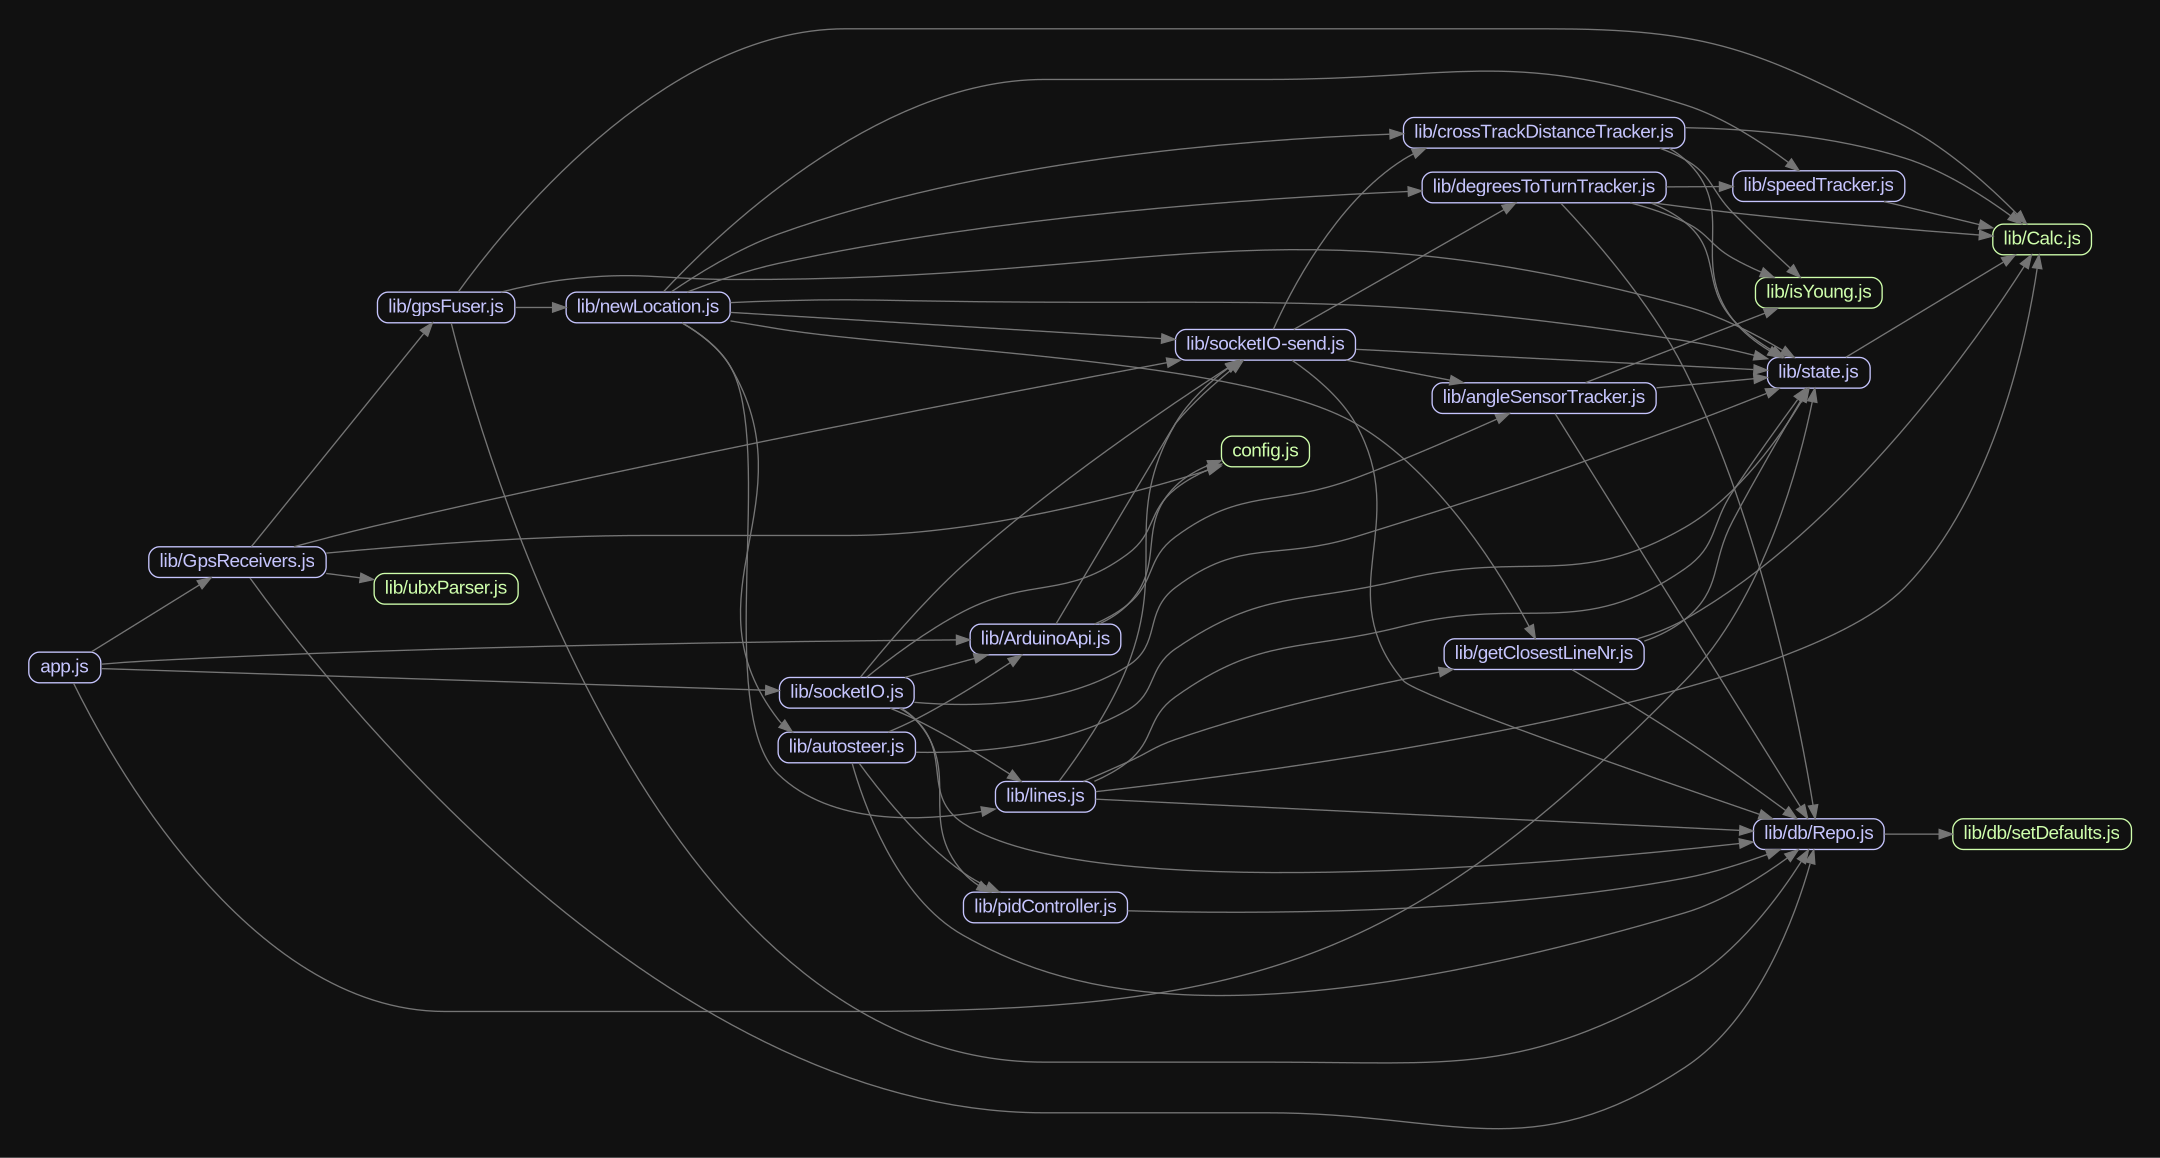
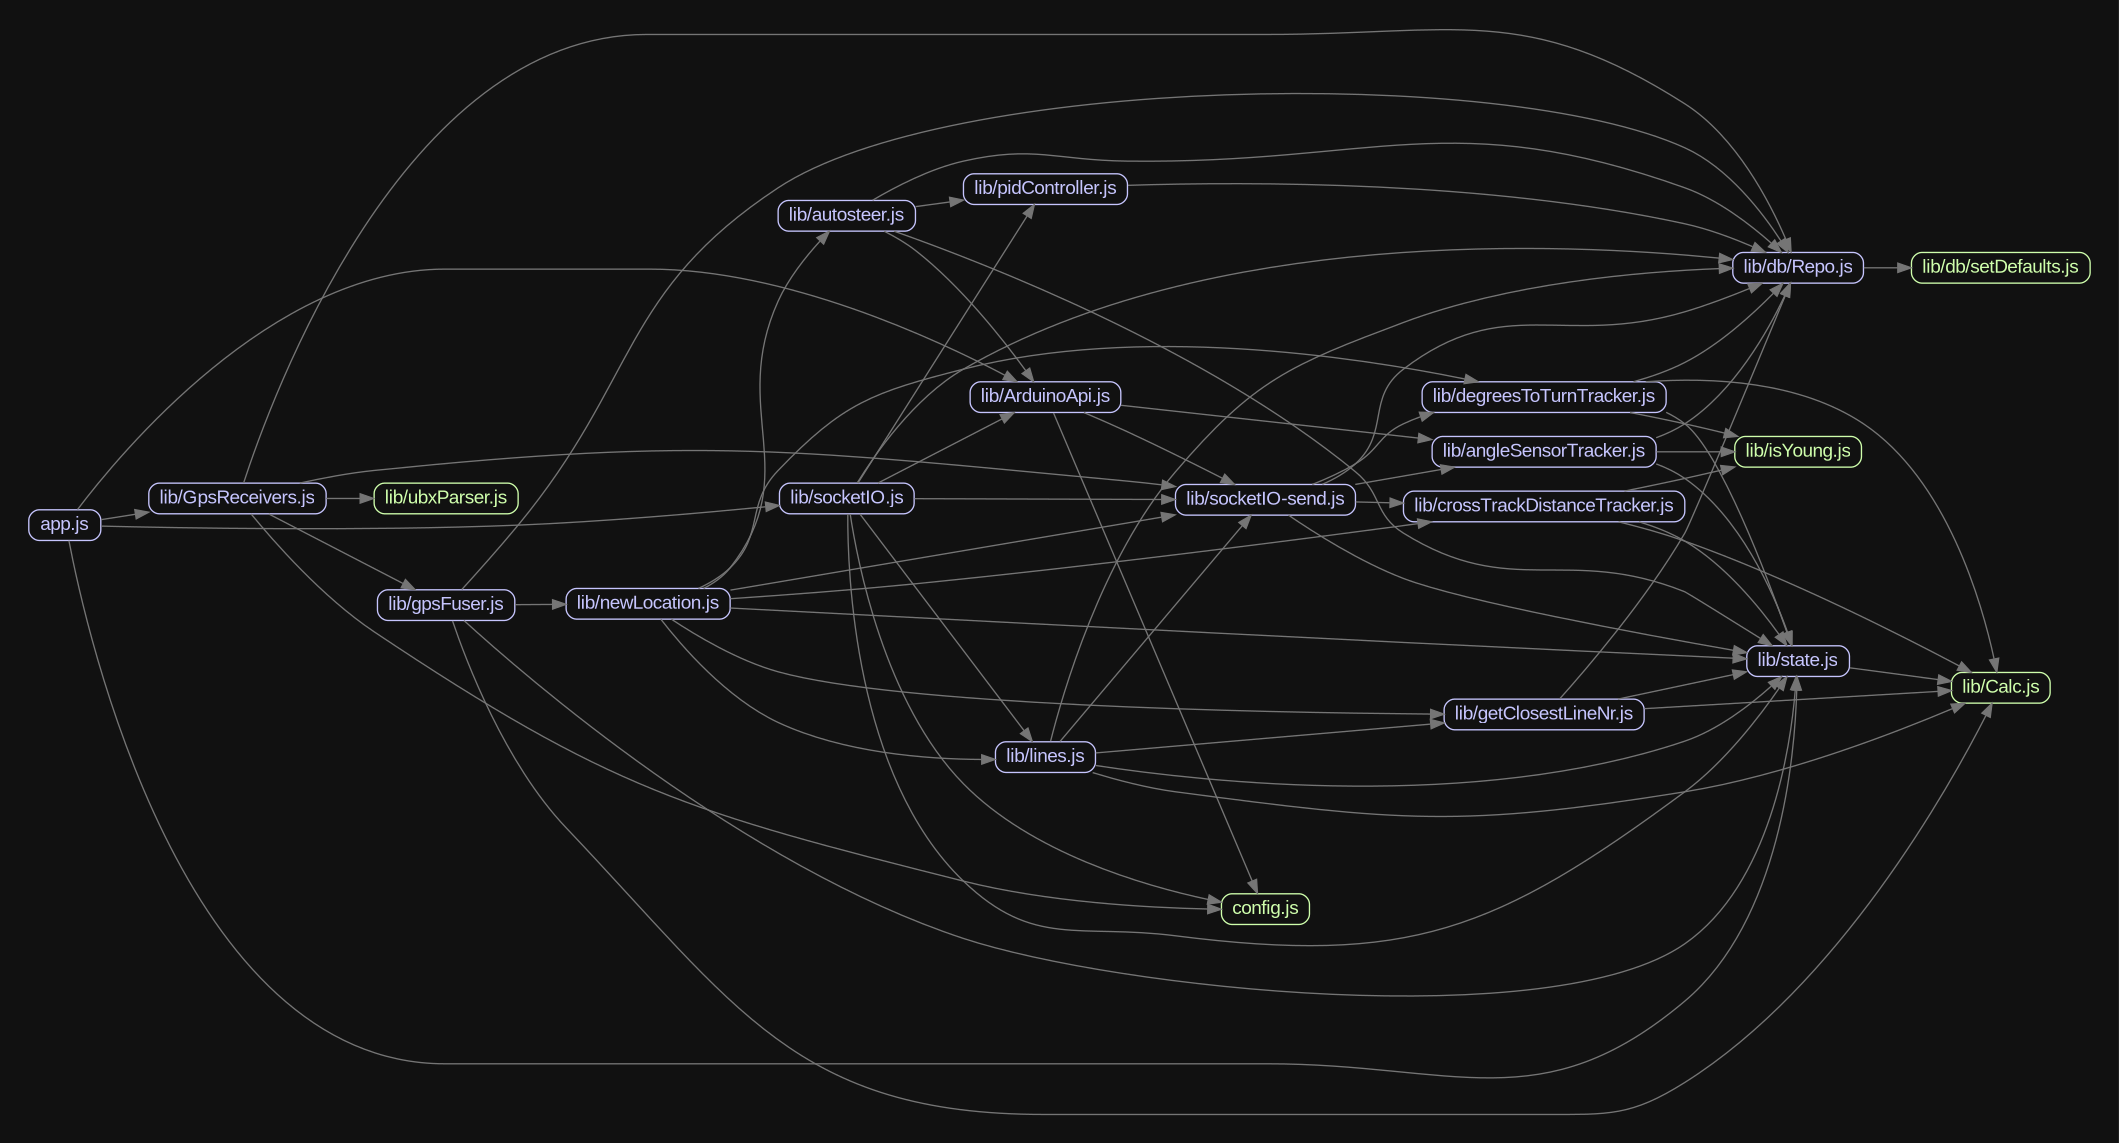
improve speed, send slope, simulator

diff --git a/lib/GpsReceivers.js b/lib/GpsReceivers.js
@@ -4,10 +4,12 @@ const Config = require('../config');
 const ubxParser = require('./ubxParser');
 const GpsFuser = require('./gpsFuser');
 var ecef = require('geodetic-to-ecef');
+const fs = require('fs');
 const sendInfo = require('./socketIO-send').sendInfo;
 const { NtripClient } = require('ntrip-client');
 const portGpsLeft = new SerialPort(Config.gpsLeft.path, { baudRate: 115200, autoOpen: false });
 const portGpsRight = new SerialPort(Config.gpsRight.path, { baudRate: 115200, autoOpen: false });
+
 const axios = require('axios').default;
 const DB = require('./db/Repo');
 
@@ -17,8 +19,7 @@ const ntripClient = new NtripClient({
   mountpoint: DB.getSettings().ntrip.mountpoint,
   username: DB.getSettings().ntrip.username,
   password: DB.getSettings().ntrip.password,
-  // the interval of send nmea, unit is millisecond
-  interval: 2000,
+  interval: 2000 // the interval of send nmea, unit is millisecond
 });
 
 assistNow();
@@ -43,43 +44,24 @@ function ntrip2() {
     console.log('client close');
   });
   ntripClient.on('error', (err) => {
-    console.log('ntrip: '+err);
+    console.log('ntrip: ' + err);
   });
   ntripClient.run();
 }
 
-
 const GpsReceivers = (() => {
   portGpsLeft.on('data', (line) => {
+    fs.appendFileSync('logsLeft.ubx', line, { encoding: 'binary' });
     if (!line.toString().startsWith('$GN')) {
-      let responses = ubxParser.parse(line);
-      responses.forEach(response => {
-        if (response.fixType === '3D-fix') {
-          ntripClient.setXYZ(ecef(response.lat, response.lon));
-        }
-        GpsFuser.fuseReceiver(0, response);
-        sendInfo(0, {
-          time: response.iTow,
-          satCount: response.numSV,
-          quality: response.flags.carrSoln
-        })
-      });
+      processUbxLeft(line);
     } else {
       console.log('NMEA0: ' + line.toString());
     }
   });
-
   portGpsRight.on('data', (line) => {
+    fs.appendFileSync('logsRight.ubx', line, { encoding: 'binary' });
     if (!line.toString().startsWith('$GN')) {
-      let responses = ubxParser.parse(line);
-      responses.forEach(response => {
-        GpsFuser.fuseReceiver(1, response);
-        sendInfo(1, {
-          time: response.iTow,
-          satCount: response.numSV,
-          quality: response.flags.carrSoln
-        })
-      });
+      processUbxRight(line);
     } else {
       console.log('NMEA1: ' + line.toString());
     }
@@ -96,6 +78,32 @@ const GpsReceivers = (() => {
   }
 })();
 
+function processUbxLeft(ubx) {
+  let responses = ubxParser.parse(ubx);
+  responses.forEach(response => {
+    if (response.fixType === '3D-fix') {
+      ntripClient.setXYZ(ecef(response.lat, response.lon));
+    }
+    GpsFuser.fuseReceiver(0, response);
+    sendInfo(0, {
+      time: response.iTow,
+      satCount: response.numSV,
+      quality: response.flags.carrSoln
+    });
+  });
+}
+
+function processUbxRight(ubx) {
+  let responses = ubxParser.parse(ubx);
+  responses.forEach(response => {
+    GpsFuser.fuseReceiver(1, response);
+    sendInfo(1, {
+      time: response.iTow,
+      satCount: response.numSV,
+      quality: response.flags.carrSoln
+    });
+  });
+}
 
 function setupReceiver(port) {
   port.write('B562068A09000001000005005210000160', 'hex'); //valset disable CFG-UART1
@@ -110,8 +118,31 @@ function setupReceiver(port) {
   port.write('B562068A0900000100000400922001513c', 'hex'); //valset enable CFG-INFMSG-UBX_USB
 }
 
-portGpsLeft.open();
-portGpsRight.open();
+portGpsLeft.open((err)=>{
+  console.error(err);
+});
+portGpsRight.open((err)=>{
+  console.error(err);
+});
 
+if (Config.simulator) {
+  console.log('hewego')
+  const fork = require('child_process').fork;
+  const path = require('path');
+  const program = path.resolve('../ubxSimulator/app.js');
+  
+  const childLeft = fork(program, ['../ubxSimulator/logsLeftFix.ubx'], {stdio: [ 'pipe', 'pipe', 'pipe', 'ipc' ]});
+  childLeft.on('message', message => {
+    message.data = [181, 98,...message.data]
+    processUbxLeft(Buffer.from(message.data));
+  });
+  const childRight = fork(program, ['../ubxSimulator/logsRightFix.ubx'], {stdio: [ 'pipe', 'pipe', 'pipe', 'ipc' ]});
+
+  childRight.on('message', message => {
+    message.data = [181, 98,...message.data]
+    processUbxRight(Buffer.from(message.data));
+  });
+  
+}
 
 module.exports = GpsReceivers;

diff --git a/lib/gpsFuser.js b/lib/gpsFuser.js
@@ -19,17 +19,19 @@ function fuseReceiver(nr, receiver) {
 
 function fuse2() {
   if (receiver1.iTow === receiver2.iTow) {
+    State.currentSpeedmms = (receiver1.gSpeed + receiver2.gSpeed) / 2;
     let r1Location = { latitude: receiver1.lat, longitude: receiver1.lon };
     let r2Location = { latitude: receiver2.lat, longitude: receiver2.lon };
     let receiverDistance = Calc.distance(r1Location, r2Location);
     let receiverHeading = Calc.bearing(r1Location, r2Location);
-    let heading = (receiverHeading - 90 + 360) % 360//kan ook +90 zijn      
+    let heading = (receiverHeading - 90 + 360) % 360;//kan ook +90 zijn      
     State.driveBearing = heading;
     State.gps.leftLocation = r1Location;
     State.gps.rightLocation = r2Location;
     let heightDifference = receiver1.height / 100 - receiver2.height / 100;
     let realReceiverDistance = Math.sqrt(Math.pow(receiverDistance, 2) + Math.pow(heightDifference, 2));
     let slope = -Calc.radToDeg(Math.atan(heightDifference / realReceiverDistance));
+    State.currentSlope = slope;
     let middleLocation = Calc.coord(r1Location, receiverHeading, receiverDistance / 2);
     let currentCorrectedLocation = correctForSlopeDual(middleLocation, heading, slope);
     NewLocation(currentCorrectedLocation);

diff --git a/lib/socketIO.js b/lib/socketIO.js
@@ -37,15 +37,6 @@ io.on('connection', (socket) => {
     IoSend.sendABIsSetStatus();
     console.log("setB");
   });
-  socket.on('turnStop', () => {
-    State.eventEmitters.steering.emit('turnStop');
-  });
-  socket.on('turnRight', () => {
-    State.eventEmitters.steering.emit('turnRight');
-  });
-  socket.on('turnLeft', () => {
-    State.eventEmitters.steering.emit('turnLeft');
-  });
   socket.on('disconnect', () => {
     if (Config.debug) {
       console.log(`Socket users: ${io.engine.clientsCount}`);
@@ -126,6 +117,17 @@ io.on('connection', (socket) => {
   });
   socket.on('piPoweroff', () => {
     require('child_process').exec('sudo /sbin/poweroff', function (msg) { console.log(msg) });
+  });
+  socket.on('turnLeftPwm', (pwm) => {
+    ArduinoApi.setPwm(pwm);
+    ArduinoApi.turnLeft();
+  });
+  socket.on('turnRightPwm', (pwm) => {
+    ArduinoApi.setPwm(pwm);
+    ArduinoApi.turnRight();
+  });
+  socket.on('turnStop', () => {
+    ArduinoApi.turnStop();
   })
 });
 

diff --git a/lib/newLocation.js b/lib/newLocation.js
@@ -1,6 +1,5 @@
 "use strict";
 const ioSend = require("./socketIO-send");
-const SpeedTracker = require('./speedTracker');
 const State = require('./state');
 const CrossTrackDistanceTracker = require('./crossTrackDistanceTracker');
 const DegreesToTurnTracker = require('./degreesToTurnTracker');
@@ -11,8 +10,8 @@ const Autosteer = require('./autosteer');
 let previousClosestLineNr = 0;
 function newLocation(currentLocation) {
   State.gps.currentLocation = currentLocation;
-  SpeedTracker.update(currentLocation);
-  ioSend.sendSpeed(SpeedTracker.getCurrentSpeed());
+  ioSend.sendSpeed(State.currentSpeedKmh);
+  ioSend.sendCurrentSlope();
   if( State.pointA.isSet && State.pointB.isSet ){
     let closestLineNr = getClosestLineNr(currentLocation);
     if(closestLineNr != previousClosestLineNr){

diff --git a/lib/degreesToTurnTracker.js b/lib/degreesToTurnTracker.js
@@ -2,7 +2,6 @@
 const DB = require('./db/Repo');
 const State = require('./state');
 const Calc = require('./Calc');
-const SpeedTracker = require('./speedTracker');
 const isYoung = require('./isYoung');
 
 const DegreesToTurnTracker = (function () {
@@ -12,7 +11,7 @@ const DegreesToTurnTracker = (function () {
     const { timeAheadSeconds, minimumDistance } = DB.getSettings().targetPoint;
     let driveBearing = State.driveBearing;
     let abLineBearing = State.abLineBearing;
-    let wheelToTargetPointDistance = SpeedTracker.getCurrentSpeed() * 1000 / 60 / 60 * timeAheadSeconds;
+    let wheelToTargetPointDistance = State.currentSpeedKmh * 1000 / 60 / 60 * timeAheadSeconds;
     if (wheelToTargetPointDistance < minimumDistance) {
       wheelToTargetPointDistance = minimumDistance;
     }

diff --git a/lib/socketIO-send.js b/lib/socketIO-send.js
@@ -178,7 +178,9 @@ function sendDegreesToTurn(socket) {
   }
   socket.emit('targetSteeringAngle', { date: new Date(), value: State.degreesToTurn });
 }
-
+function sendCurrentSlope(){
+  io.emit('currentSlope', State.currentSlope);
+}
 function sendSteeringSettings(socket){
   if (!socket) {
     socket = io;
@@ -218,5 +220,6 @@ module.exports = {
   sendDegreesToTurn,
   sendSteeringSettings,
   sendSaveSettingsSuccess,
-  sendNtripSettings
+  sendNtripSettings,
+  sendCurrentSlope
 };

diff --git a/lib/state.js b/lib/state.js
@@ -8,6 +8,11 @@ let state = {
   degreesToTurn: undefined,
   targetPointLocation: undefined,
   wheelPosition: undefined,
+  currentSpeedmms : undefined,
+  currentSlope: undefined,
+  get currentSpeedKmh(){
+    return this.currentSpeedmms / 1000000 * 60 * 60;
+  },
   gps: {
     currentLocation: undefined,
     leftLocation: undefined,

diff --git a/app.js b/app.js
@@ -4,7 +4,3 @@ require('./lib/ArduinoApi').open();
 const State = require('./lib/state');
 require('./lib/socketIO');
  
-State.eventEmitters.steering.on('turnRight', function(){
-  console.log('turnRight');
-});
-

diff --git a/config.js b/config.js
@@ -12,4 +12,5 @@ module.exports = {
     path: '/dev/ttyACM1'
   },
   debug: true,
+  simulator: true,
 }
